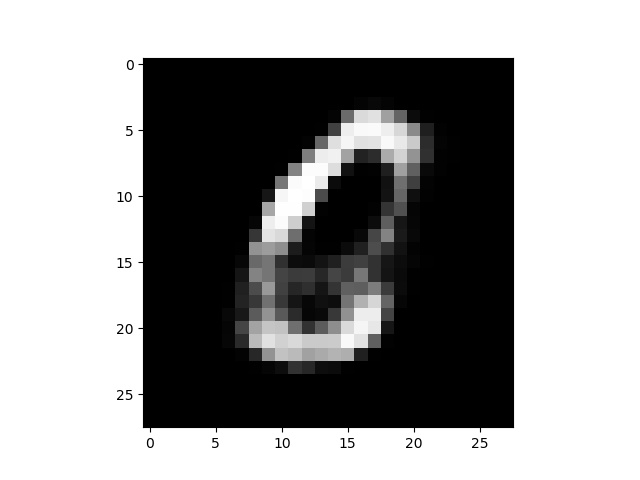
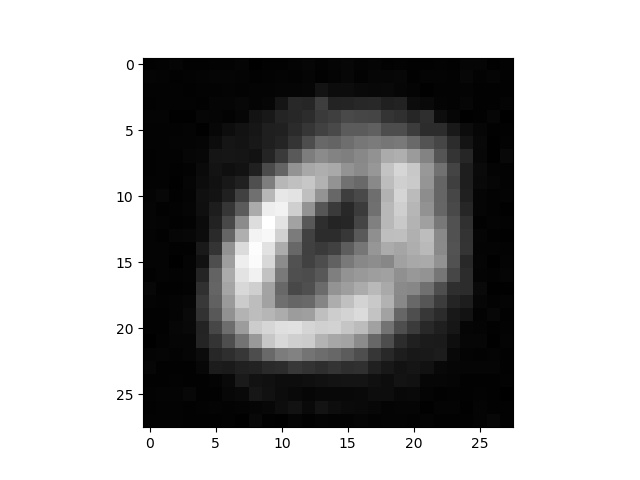
removed dt

Changed region(s): [[0.2812, 0.1875, 0.75, 0.8125]]

diff --git a/algorithm1.py b/algorithm1.py
@@ -172,13 +172,13 @@ def find_jacobian_1(model, z1): #Jg
 		z.grad.data.zero_()
 	return jacobian
 
-T = 6
-epsilon = 5
+T = 5
+dt = 1.0 / T
+epsilon = 7
 z_collection = []
 delta_e = torch.FloatTensor(20,784).zero_()
 
 def find_energy(model,z0, z1, z2):
-    dt = 1 / T
     a11 = find_jacobian_1(model,Variable(z1, requires_grad=True))
     a1 = torch.transpose(find_jacobian_1(model,Variable(z1, requires_grad=True)),0,1)
     a2 = ((model.decode(Variable(z2)) - 2*model.decode(Variable(z1))+model.decode(Variable(z0))).data).view(784,1)

diff --git a/algorithm2.py b/algorithm2.py
@@ -29,9 +29,7 @@ load_model()
 def find_v0(z):
 	b = z[1]
 	a = z[0]
-	T = len(z_collection) - 1
-	dt = 1.0 / T
-	v0 = (b - a) / dt
+	v0 = (b - a) 
 	# v0 is 20 size float tensor 
 	return v0
 
